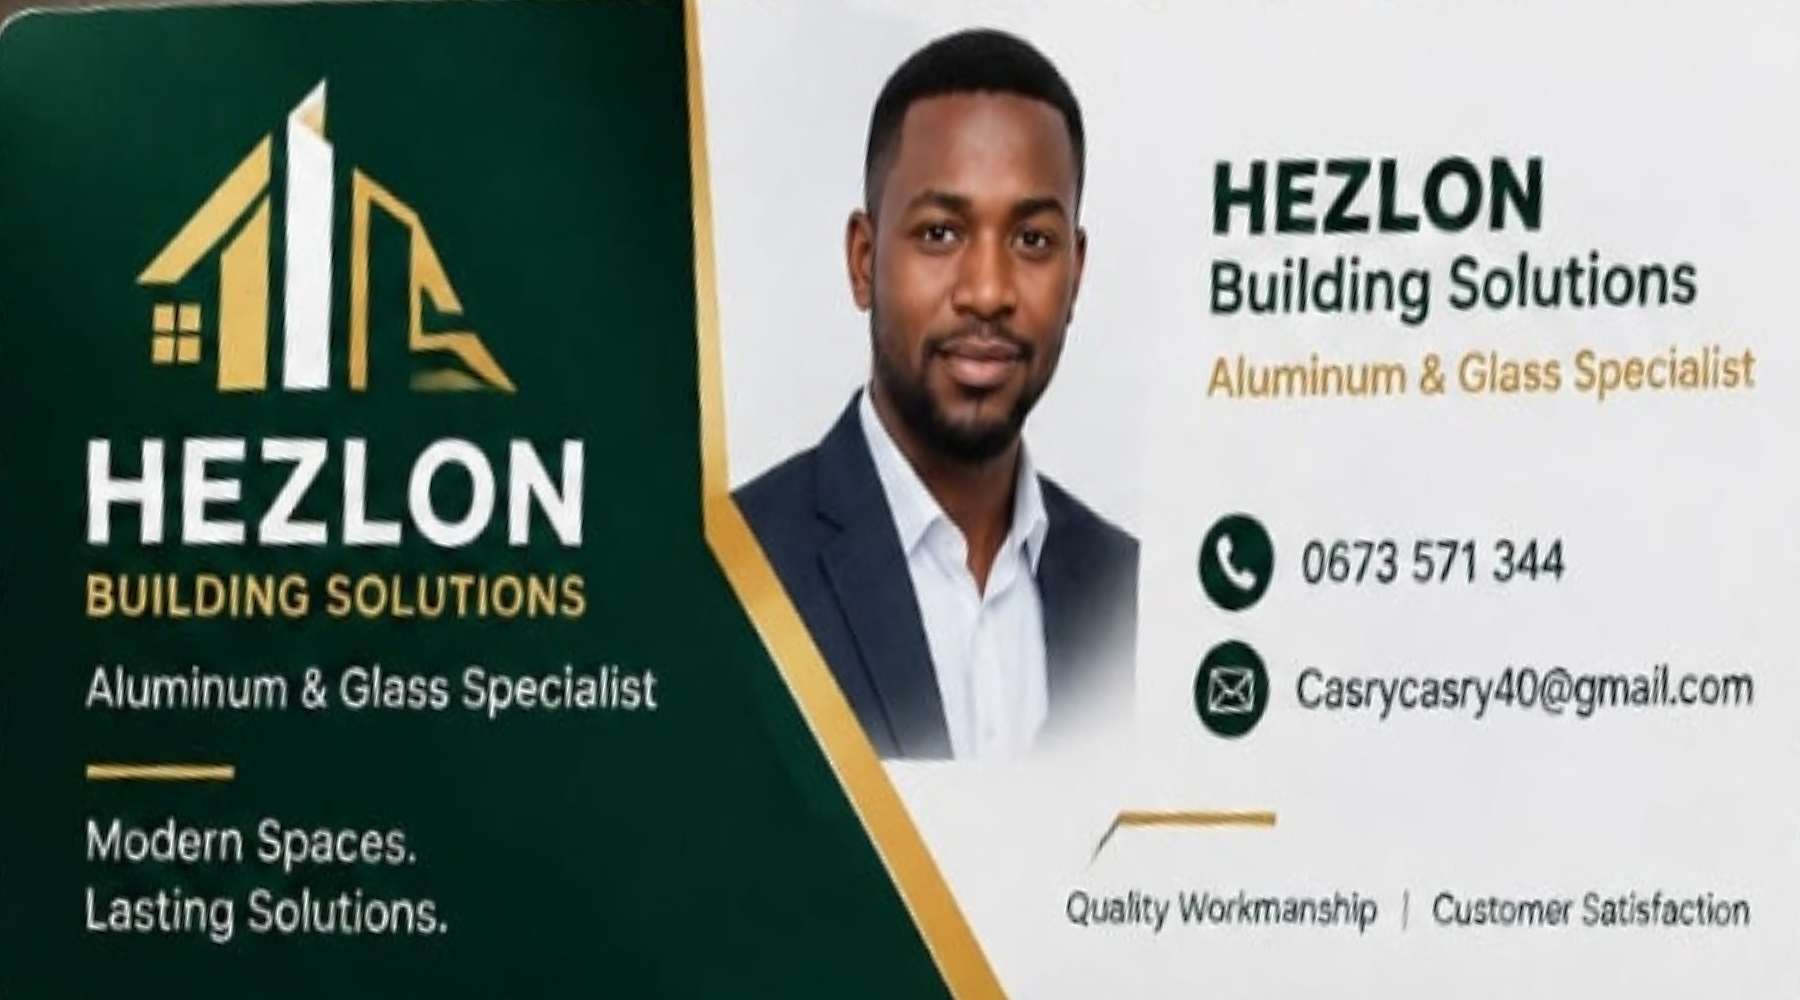
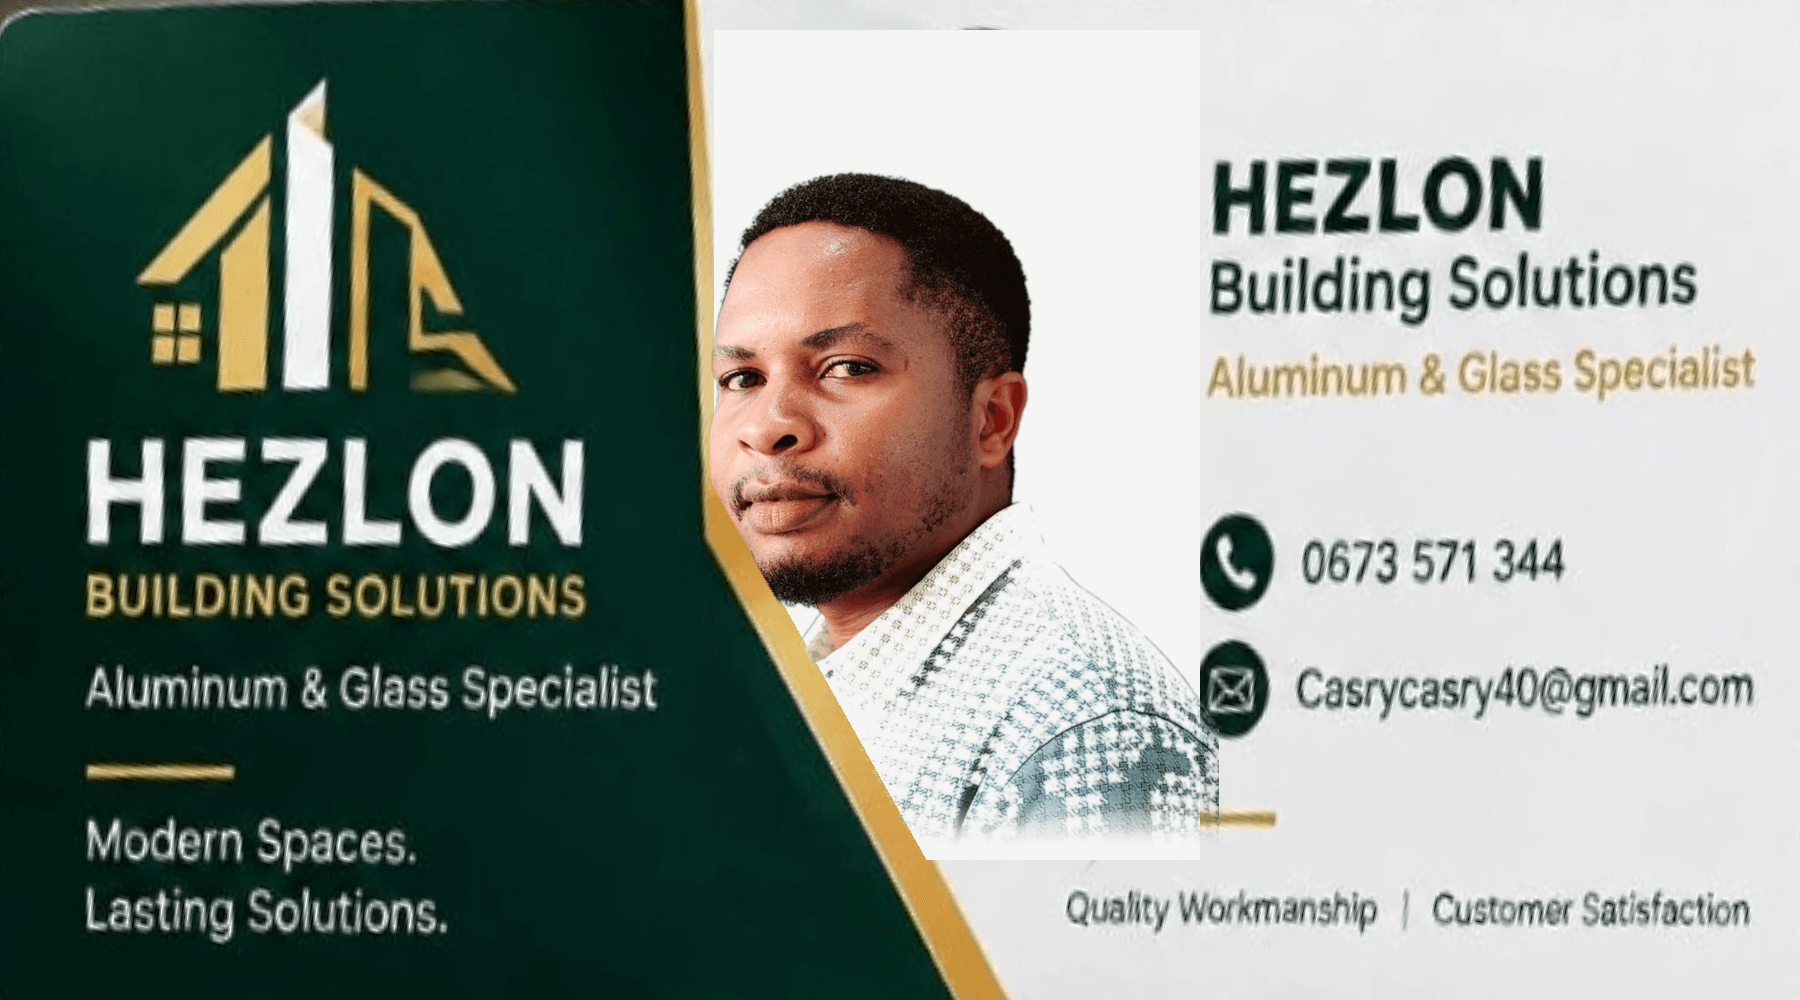
feat(branding): update real owner profile photo across card front templates, standalone assets, and digital profile

Changed region(s): [[0.3733, 0.031, 0.6844, 0.868]]

diff --git a/scripts/update-profile-assets.ts b/scripts/update-profile-assets.ts
@@ -1,0 +1,281 @@
+import sharp from 'sharp';
+import fs from 'fs/promises';
+import path from 'path';
+import { PrismaClient } from '@prisma/client';
+
+const prisma = new PrismaClient();
+
+async function main() {
+  console.log('=== UPDATING HEZLON PROFILE IMAGES AND FRONT CARD TEMPLATES ===');
+
+  const profilePath = path.join(process.cwd(), 'public', 'uploads', 'profile.jpeg');
+  const templatesDir = path.join(process.cwd(), 'public', 'uploads', 'templates');
+
+  // Verify profile.jpeg exists
+  await fs.access(profilePath);
+  const profileMeta = await sharp(profilePath).metadata();
+  console.log(`✔ Found profile.jpeg: ${profileMeta.width}x${profileMeta.height} (${profileMeta.format})`);
+
+  // -------------------------------------------------------------
+  // 1. GENERATE HIGH-RESOLUTION STANDALONE PORTRAITS
+  // -------------------------------------------------------------
+
+  // A. High-Res Square Executive Headshot (800x800)
+  // Centered on head: x=512, y=490, size=780
+  const headshotSquare = await sharp(profilePath)
+    .extract({ left: 122, top: 100, width: 780, height: 780 })
+    .resize(800, 800, { fit: 'cover' })
+    .png({ quality: 100 })
+    .toBuffer();
+
+  const squarePath = path.join(templatesDir, 'hezlon-owner-portrait.png');
+  await fs.writeFile(squarePath, headshotSquare);
+  console.log(`✔ Updated: ${squarePath} (800x800)`);
+
+  // B. High-Res Circular Medallion Headshot (800x800 with antialiased alpha)
+  const circleMaskSvg = `
+    <svg width="800" height="800" viewBox="0 0 800 800" xmlns="http://www.w3.org/2000/svg">
+      <circle cx="400" cy="400" r="396" fill="#ffffff" />
+    </svg>
+  `;
+  const circleMask = await sharp(Buffer.from(circleMaskSvg)).toColourspace('b-w').toBuffer();
+
+  const circleHeadshot = await sharp(headshotSquare)
+    .ensureAlpha()
+    .composite([{ input: circleMask, blend: 'dest-in' }])
+    .png({ quality: 100 })
+    .toBuffer();
+
+  const circlePath = path.join(templatesDir, 'hezlon-owner-portrait-circle.png');
+  await fs.writeFile(circlePath, circleHeadshot);
+  console.log(`✔ Updated: ${circlePath} (800x800 with alpha)`);
+
+  // C. High-Res Transparent Cutout (hezlon-owner-portrait-cutout.png)
+  // Use the verified test-cutout.png from scripts/test-cutout.png
+  const cutoutScriptPath = path.join(process.cwd(), 'scripts', 'test-cutout.png');
+  const cutoutBuffer = await fs.readFile(cutoutScriptPath);
+  const cutoutPath = path.join(templatesDir, 'hezlon-owner-portrait-cutout.png');
+  await fs.writeFile(cutoutPath, cutoutBuffer);
+  console.log(`✔ Updated: ${cutoutPath} (1024x1280 transparent cutout)`);
+
+  // -------------------------------------------------------------
+  // 2. RE-COMPOSITE SIGNATURE FRONT CARD TEMPLATES (1800x1000)
+  // -------------------------------------------------------------
+
+  // A. HEZLON Executive Portrait & Showcase (hezlon-card-showcase-front.png)
+  console.log('Generating hezlon-card-showcase-front.png...');
+  await compositeRibbonCard(
+    path.join(templatesDir, 'hezlon-card-showcase-front.png'),
+    cutoutBuffer,
+    { r: 245, g: 245, b: 243 }
+  );
+
+  // B. HEZLON Imperial Portrait & Glass Villa (hezlon-card-imperial-front.png)
+  console.log('Generating hezlon-card-imperial-front.png...');
+  await compositeRibbonCard(
+    path.join(templatesDir, 'hezlon-card-imperial-front.png'),
+    cutoutBuffer,
+    { r: 242, g: 241, b: 239 }
+  );
+
+  // C. HEZLON Royal Medallion & Architectural Collage (hezlon-card-royal-front.png)
+  console.log('Generating hezlon-card-royal-front.png...');
+  await compositeEllipseMedallion(
+    path.join(templatesDir, 'hezlon-card-royal-front.png'),
+    profilePath,
+    { cx: 918, cy: 498, rx: 224, ry: 294 }
+  );
+
+  // D. HEZLON Chevron Medallion & Service Matrix (hezlon-card-chevron-front.png)
+  console.log('Generating hezlon-card-chevron-front.png...');
+  await compositeEllipseMedallion(
+    path.join(templatesDir, 'hezlon-card-chevron-front.png'),
+    profilePath,
+    { cx: 911, cy: 498, rx: 221, ry: 294 }
+  );
+
+  // -------------------------------------------------------------
+  // 3. UPDATE DATABASE RECORDS
+  // -------------------------------------------------------------
+  console.log('Updating CompanyProfile and BusinessCardDesigns in database...');
+  await prisma.companyProfile.update({
+    where: { id: 'hezlon-singleton' },
+    data: {
+      ownerPhotoUrl: '/uploads/templates/hezlon-owner-portrait.png',
+    },
+  });
+  console.log('✔ Updated CompanyProfile.ownerPhotoUrl = /uploads/templates/hezlon-owner-portrait.png');
+
+  console.log('=== ALL PROFILE ASSETS UPDATED SUCCESSFULLY ===');
+}
+
+/** Composites the owner cutout behind the gold diagonal ribbon for showcase and imperial cards */
+async function compositeRibbonCard(
+  cardFilePath: string,
+  cutoutBuffer: Buffer,
+  bgRgb: { r: number; g: number; b: number }
+) {
+  const card = await sharp(cardFilePath).raw().toBuffer({ resolveWithObject: true });
+  const w = card.info.width;
+  const h = card.info.height;
+
+  // Prepare cutout sized to card
+  const targetH = 780;
+  const targetW = 624;
+
+  const cutoutResized = await sharp(cutoutBuffer)
+    .resize(targetW, targetH, { fit: 'contain' })
+    .ensureAlpha()
+    .raw()
+    .toBuffer({ resolveWithObject: true });
+
+  const pw = cutoutResized.info.width;
+  const ph = cutoutResized.info.height;
+
+  // Soft bottom fade
+  const pData = Buffer.from(cutoutResized.data);
+  for (let py = ph - 60; py < ph; py++) {
+    const fade = Math.max(0, (ph - 1 - py) / 60);
+    const alphaFade = fade * fade * (3 - 2 * fade);
+    for (let px = 0; px < pw; px++) {
+      const idx = (py * pw + px) * 4 + 3;
+      pData[idx] = Math.round(pData[idx] * alphaFade);
+    }
+  }
+
+  const outData = Buffer.from(card.data);
+
+  // Ribbon boundary: x=708 from y=0..480, then slope to 1000 at y=1000
+  const ribbonX: number[] = [];
+  for (let y = 0; y < h; y++) {
+    let rx = 708;
+    if (y > 480) {
+      rx = Math.round(708 + (y - 480) * 0.56);
+    }
+    ribbonX.push(rx);
+  }
+
+  // Clear old placeholder man pixels
+  for (let y = 30; y < 860; y++) {
+    const rx = ribbonX[y];
+    for (let x = rx + 6; x < 1200; x++) {
+      const idx = (y * w + x) * card.info.channels;
+      outData[idx] = bgRgb.r;
+      outData[idx + 1] = bgRgb.g;
+      outData[idx + 2] = bgRgb.b;
+    }
+  }
+
+  // Composite new portrait
+  const targetX = 595;
+  const targetY = 70;
+
+  for (let py = 0; py < ph; py++) {
+    const cy = targetY + py;
+    if (cy >= h || cy < 0) continue;
+    const rx = ribbonX[cy];
+
+    for (let px = 0; px < pw; px++) {
+      const cx = targetX + px;
+      if (cx >= w || cx < 0) continue;
+
+      if (cx <= rx) continue;
+
+      const pIdx = (py * pw + px) * 4;
+      const alpha = pData[pIdx + 3] / 255;
+      if (alpha <= 0) continue;
+
+      const cIdx = (cy * w + cx) * card.info.channels;
+
+      let ribbonAlpha = 1.0;
+      if (cx - rx < 3) {
+        ribbonAlpha = (cx - rx) / 3;
+      }
+      const effectiveAlpha = alpha * ribbonAlpha;
+
+      outData[cIdx] = Math.round(pData[pIdx] * effectiveAlpha + outData[cIdx] * (1 - effectiveAlpha));
+      outData[cIdx + 1] = Math.round(pData[pIdx + 1] * effectiveAlpha + outData[cIdx + 1] * (1 - effectiveAlpha));
+      outData[cIdx + 2] = Math.round(pData[pIdx + 2] * effectiveAlpha + outData[cIdx + 2] * (1 - effectiveAlpha));
+    }
+  }
+
+  const resultBuf = await sharp(outData, { raw: { width: w, height: h, channels: card.info.channels } })
+    .png({ quality: 100, compressionLevel: 8 })
+    .toBuffer();
+
+  await fs.writeFile(cardFilePath, resultBuf);
+  console.log(`✔ Saved: ${cardFilePath}`);
+}
+
+/** Composites the owner portrait inside the luxury gold ellipse medallion for royal and chevron cards */
+async function compositeEllipseMedallion(
+  cardFilePath: string,
+  profilePath: string,
+  ellipse: { cx: number; cy: number; rx: number; ry: number }
+) {
+  const card = await sharp(cardFilePath).raw().toBuffer({ resolveWithObject: true });
+  const w = card.info.width;
+  const h = card.info.height;
+
+  const { cx, cy, rx, ry } = ellipse;
+
+  // Prepare bust crop from profile.jpeg:
+  const portraitCrop = await sharp(profilePath)
+    .extract({ left: 72, top: 80, width: 880, height: 1150 })
+    .resize(rx * 2, ry * 2, { fit: 'cover' })
+    .ensureAlpha()
+    .raw()
+    .toBuffer({ resolveWithObject: true });
+
+  const pw = portraitCrop.info.width;
+  const ph = portraitCrop.info.height;
+
+  const outData = Buffer.from(card.data);
+  const left = cx - rx;
+  const top = cy - ry;
+
+  for (let py = 0; py < ph; py++) {
+    const cardY = top + py;
+    if (cardY < 0 || cardY >= h) continue;
+
+    const dy = (cardY - cy) / ry;
+    const dy2 = dy * dy;
+
+    for (let px = 0; px < pw; px++) {
+      const cardX = left + px;
+      if (cardX < 0 || cardX >= w) continue;
+
+      const dx = (cardX - cx) / rx;
+      const dist2 = dx * dx + dy2;
+
+      if (dist2 <= 1.0) {
+        let alpha = 1.0;
+        const dist = Math.sqrt(dist2);
+        if (dist > 0.98) {
+          alpha = (1.0 - dist) / 0.02;
+        }
+
+        const pIdx = (py * pw + px) * 4;
+        const cIdx = (cardY * w + cardX) * card.info.channels;
+
+        outData[cIdx] = Math.round(portraitCrop.data[pIdx] * alpha + outData[cIdx] * (1 - alpha));
+        outData[cIdx + 1] = Math.round(portraitCrop.data[pIdx + 1] * alpha + outData[cIdx + 1] * (1 - alpha));
+        outData[cIdx + 2] = Math.round(portraitCrop.data[pIdx + 2] * alpha + outData[cIdx + 2] * (1 - alpha));
+      }
+    }
+  }
+
+  const resultBuf = await sharp(outData, { raw: { width: w, height: h, channels: card.info.channels } })
+    .png({ quality: 100, compressionLevel: 8 })
+    .toBuffer();
+
+  await fs.writeFile(cardFilePath, resultBuf);
+  console.log(`✔ Saved: ${cardFilePath}`);
+}
+
+main()
+  .catch((e) => {
+    console.error(e);
+    process.exit(1);
+  })
+  .finally(() => prisma.$disconnect());

diff --git a/src/app/hezlon/page.tsx b/src/app/hezlon/page.tsx
@@ -485,12 +485,24 @@ export default function HezlonDigitalProfilePage() {
                 />
                 <div className="absolute inset-0 bg-gradient-to-t from-forest-950 via-forest-950/20 to-transparent" />
                 <div className="absolute bottom-3 left-3 right-3 sm:bottom-4 sm:left-4 sm:right-4 p-3.5 sm:p-4 rounded-2xl bg-forest-950/90 backdrop-blur-md border border-gold/30 flex items-center justify-between gap-3">
-                  <div className="min-w-0">
-                    <div className="text-[10px] uppercase tracking-[0.16em] sm:tracking-[0.2em] text-gold font-bold">
-                      HEZLON WORKMANSHIP
-                    </div>
-                    <div className="text-xs sm:text-sm font-serif font-bold text-cream mt-0.5 truncate">
-                      Quality • Creativity • Reliability
+                  <div className="flex items-center gap-3 min-w-0">
+                    {data?.company?.ownerPhotoUrl ? (
+                      <div className="w-10 h-10 sm:w-12 sm:h-12 rounded-full border-2 border-gold overflow-hidden shrink-0 shadow-md bg-forest-900">
+                        {/* eslint-disable-next-line @next/next/no-img-element */}
+                        <img
+                          src={data.company.ownerPhotoUrl}
+                          alt="HEZLON Executive Specialist"
+                          className="w-full h-full object-cover"
+                        />
+                      </div>
+                    ) : null}
+                    <div className="min-w-0">
+                      <div className="text-[10px] uppercase tracking-[0.16em] sm:tracking-[0.2em] text-gold font-bold">
+                        HEZLON WORKMANSHIP
+                      </div>
+                      <div className="text-xs sm:text-sm font-serif font-bold text-cream mt-0.5 truncate">
+                        Quality • Creativity • Reliability
+                      </div>
                     </div>
                   </div>
                   <div className="w-9 h-9 sm:w-10 sm:h-10 rounded-xl bg-gold/15 border border-gold/40 flex items-center justify-center text-gold shrink-0">

diff --git a/prisma/seed.ts b/prisma/seed.ts
@@ -49,7 +49,7 @@ async function main() {
     physicalAddress: "",
     workingHours: "",
     logoUrl: "",
-    ownerPhotoUrl: "",
+    ownerPhotoUrl: "/uploads/templates/hezlon-owner-portrait.png",
     coverImageUrl: "",
     galleryImagesJson: "[]",
     defaultWidthMm: 90,
